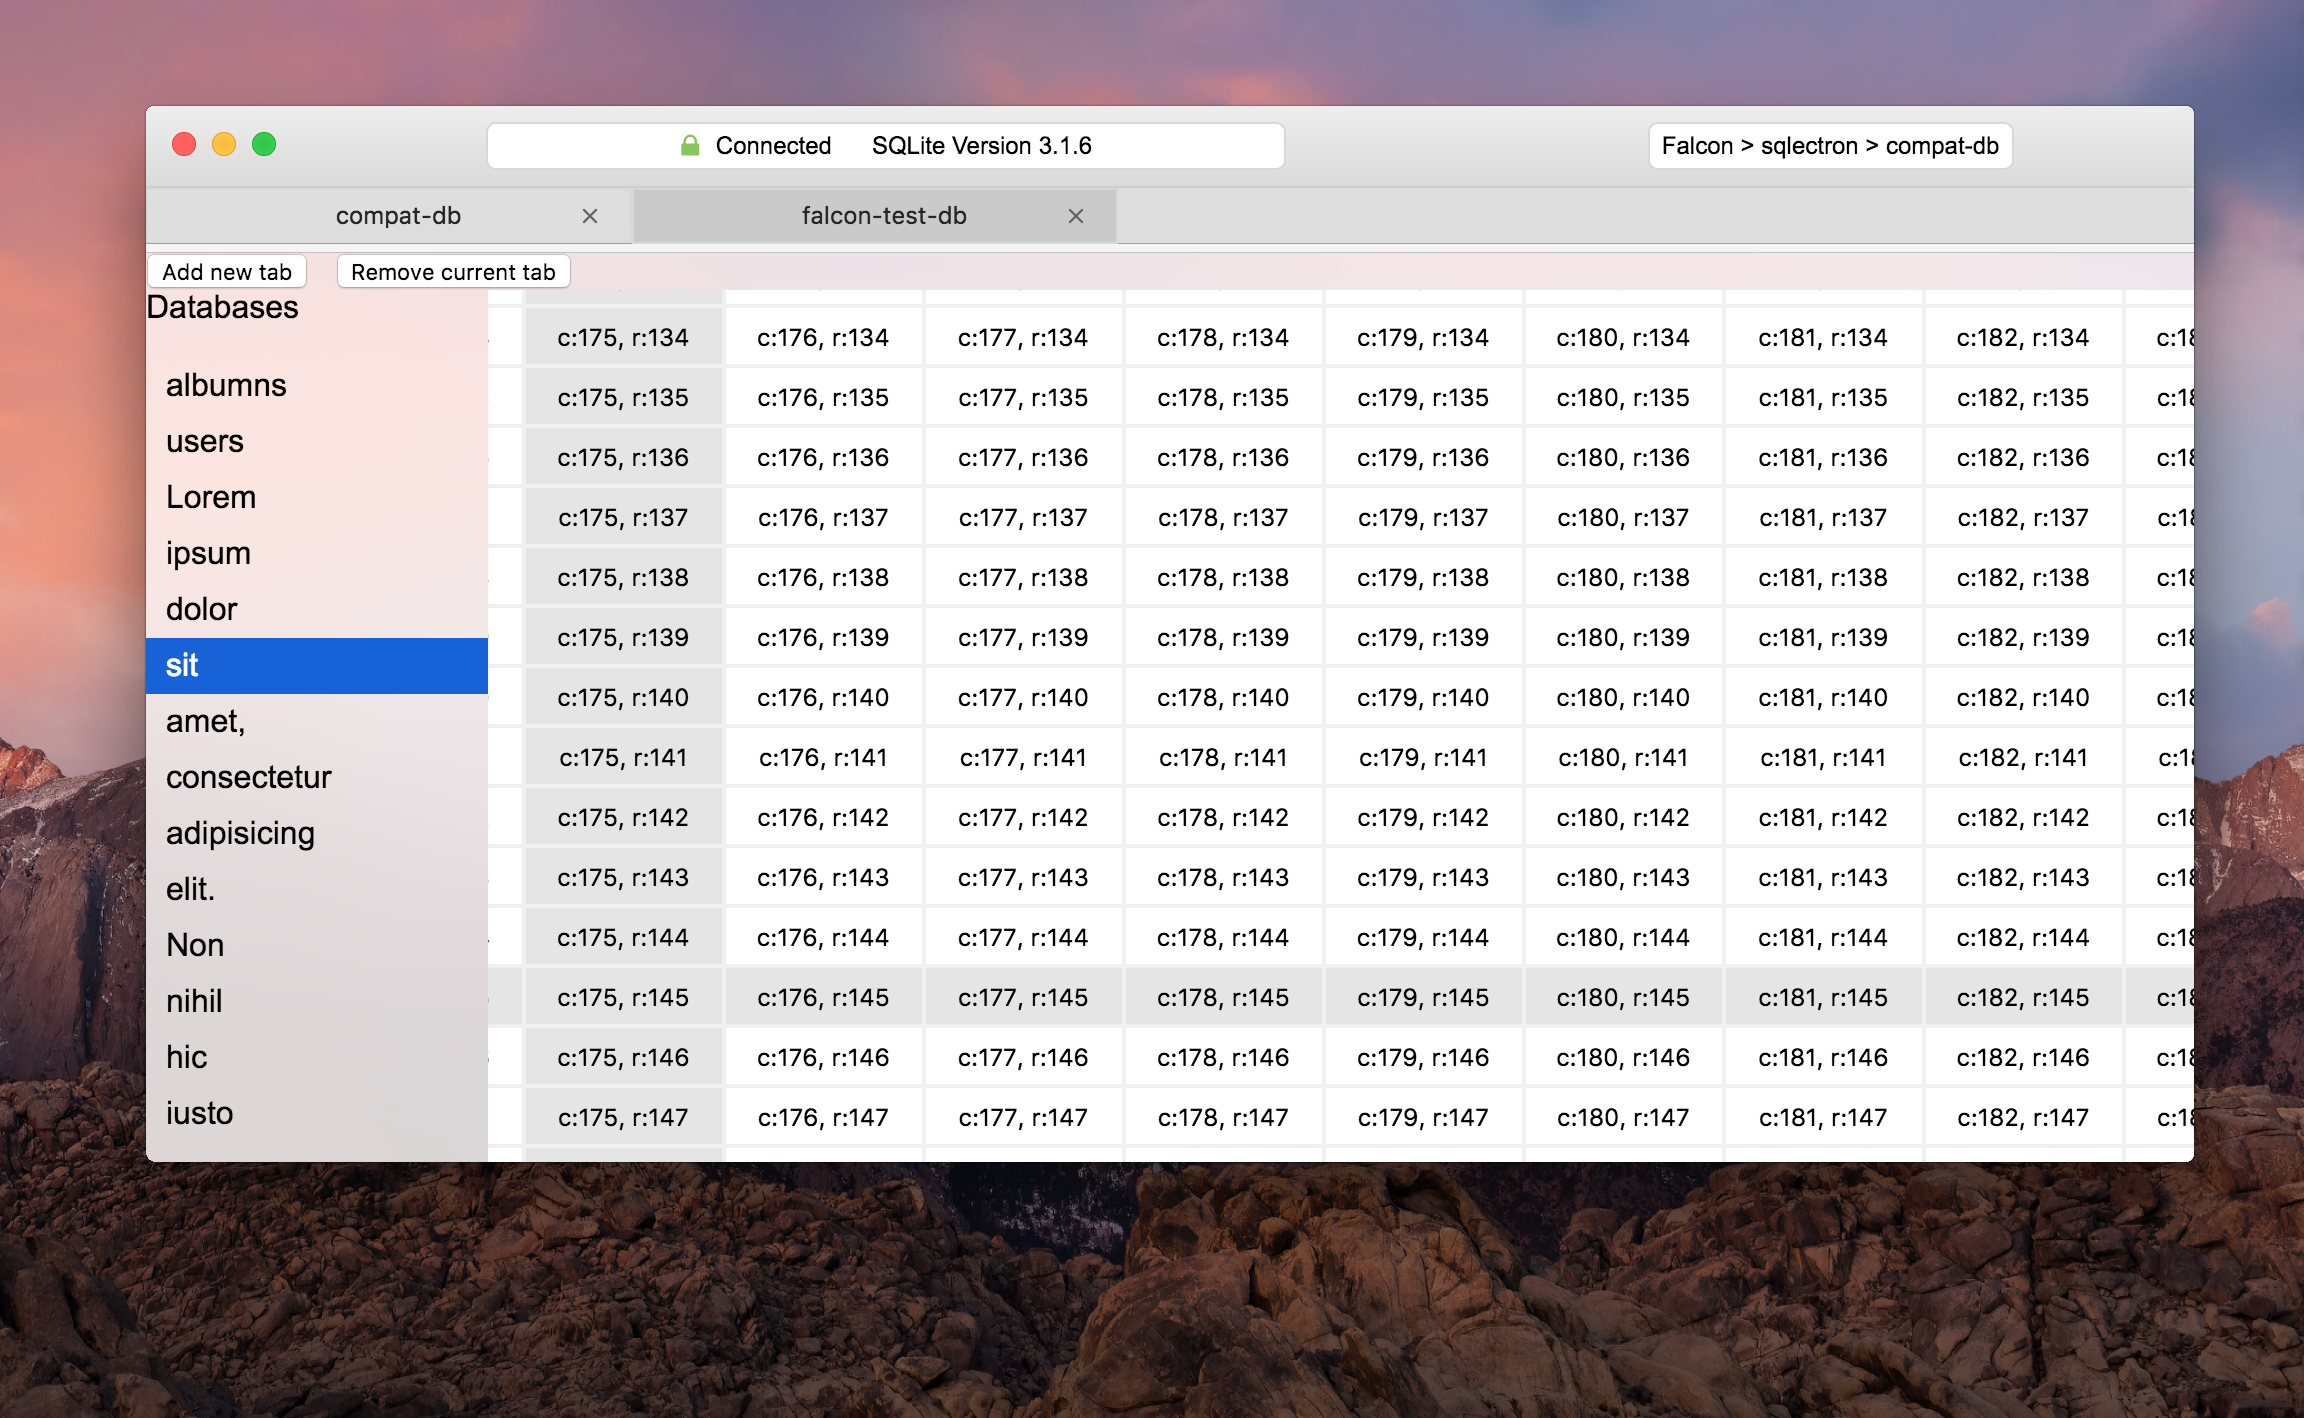
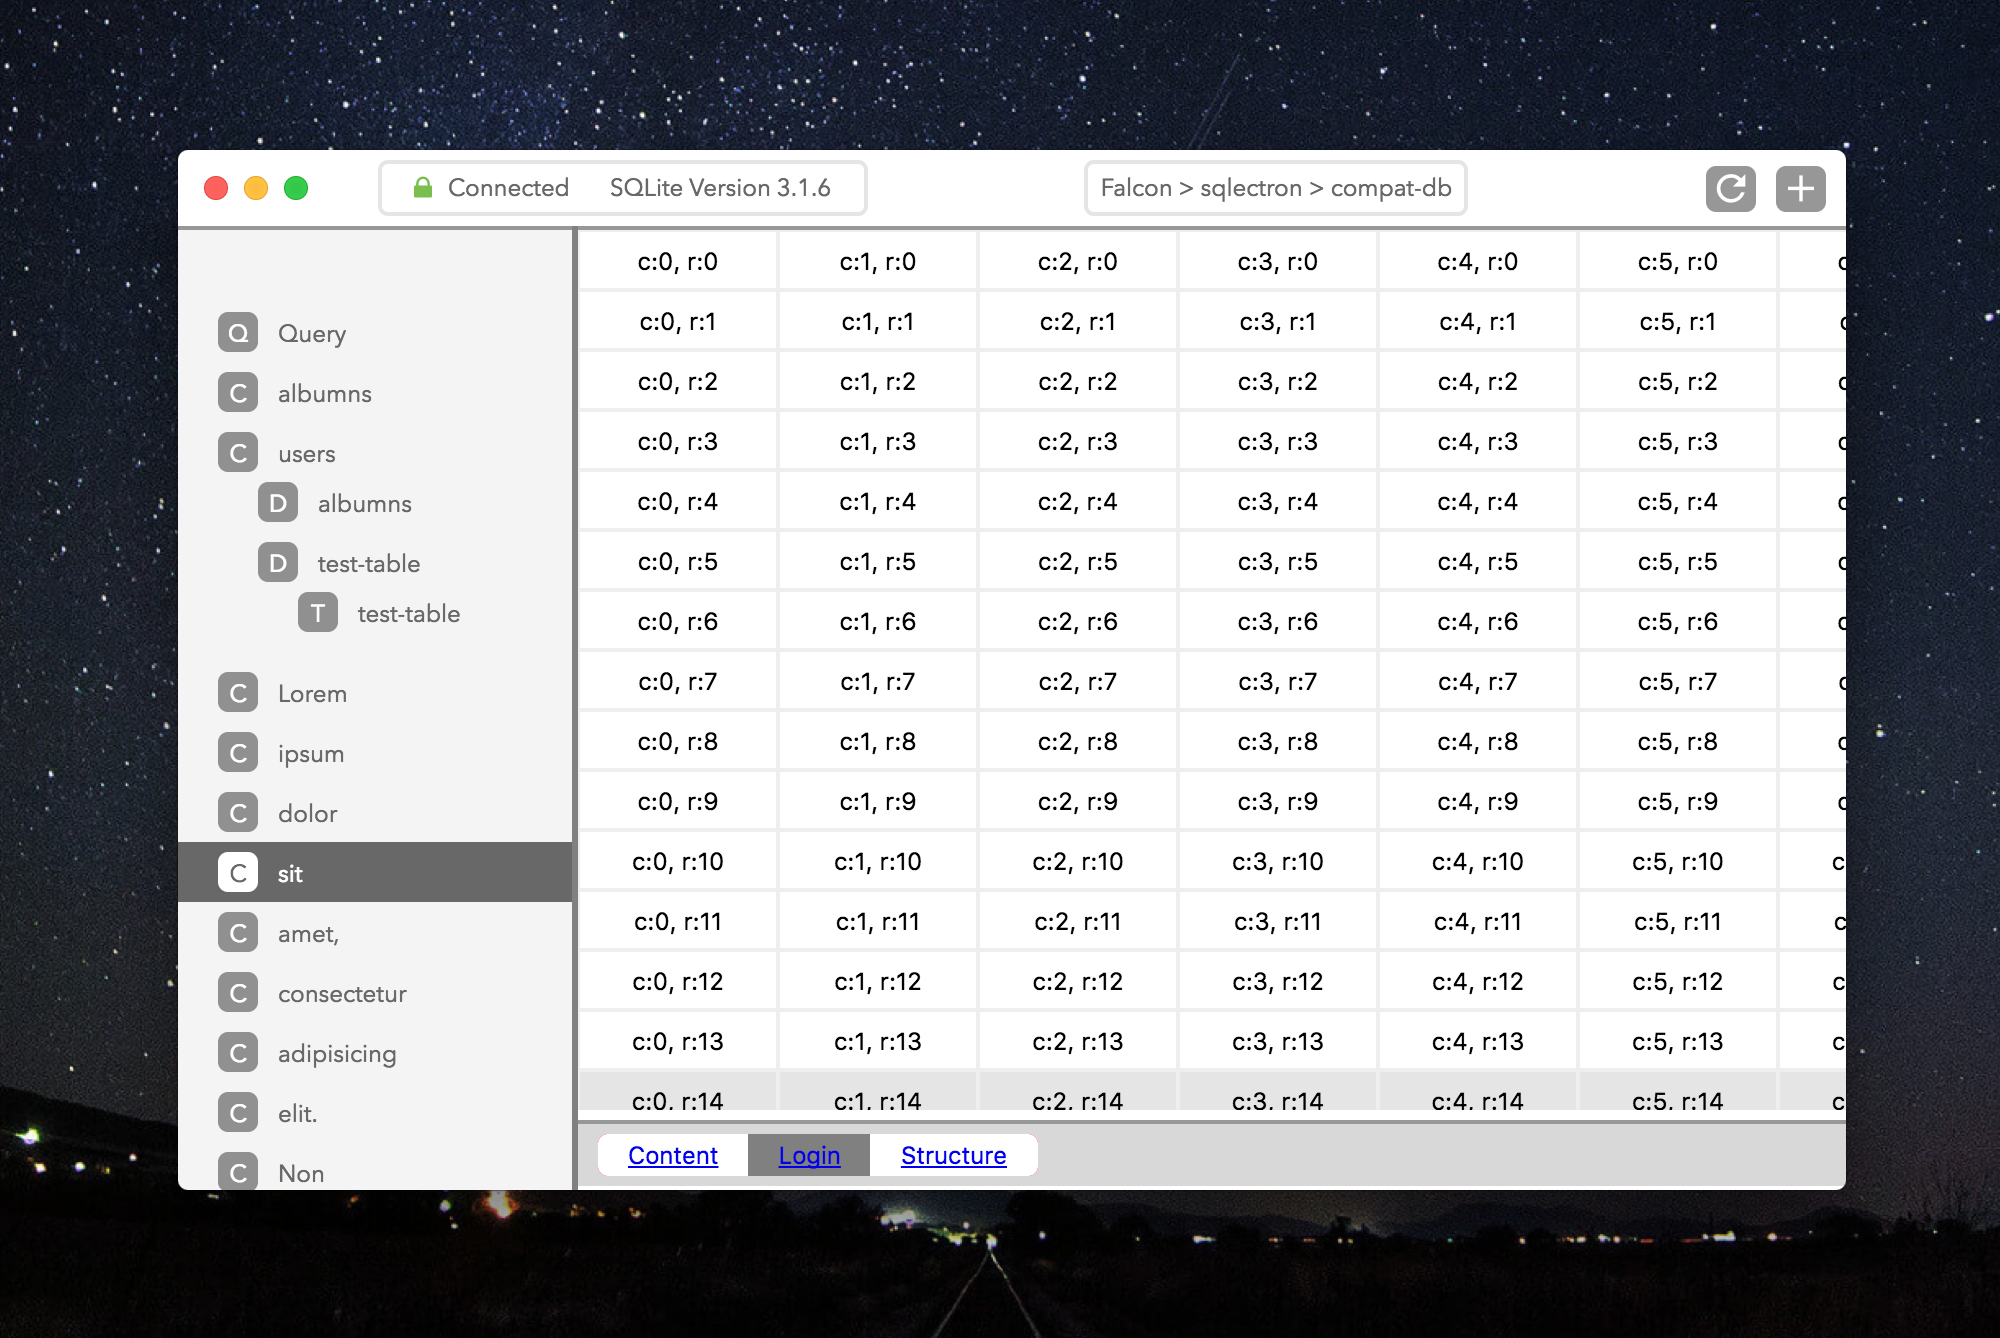
Added roadmap to readme, updated screenshot

diff --git a/README.md b/README.md
@@ -1,11 +1,16 @@
-# falcon-ui-rewrite
+# falcon-ui-rewrite-2
 ![Falcon Demo Rewrite](/internals/img/falcon-demo.png)
 
-
-## Installation
+## Setup
 ```bash
 git clone https://github.com/amilajack/falcon-ui-rewrite.git
 cd falcon-ui-rewrite
 yarn
 yarn dev
 ```
+
+## Roadmap
+- [x] Content Page
+- [x] Login Page
+- [ ] Structure Page
+- [ ] Query Page
